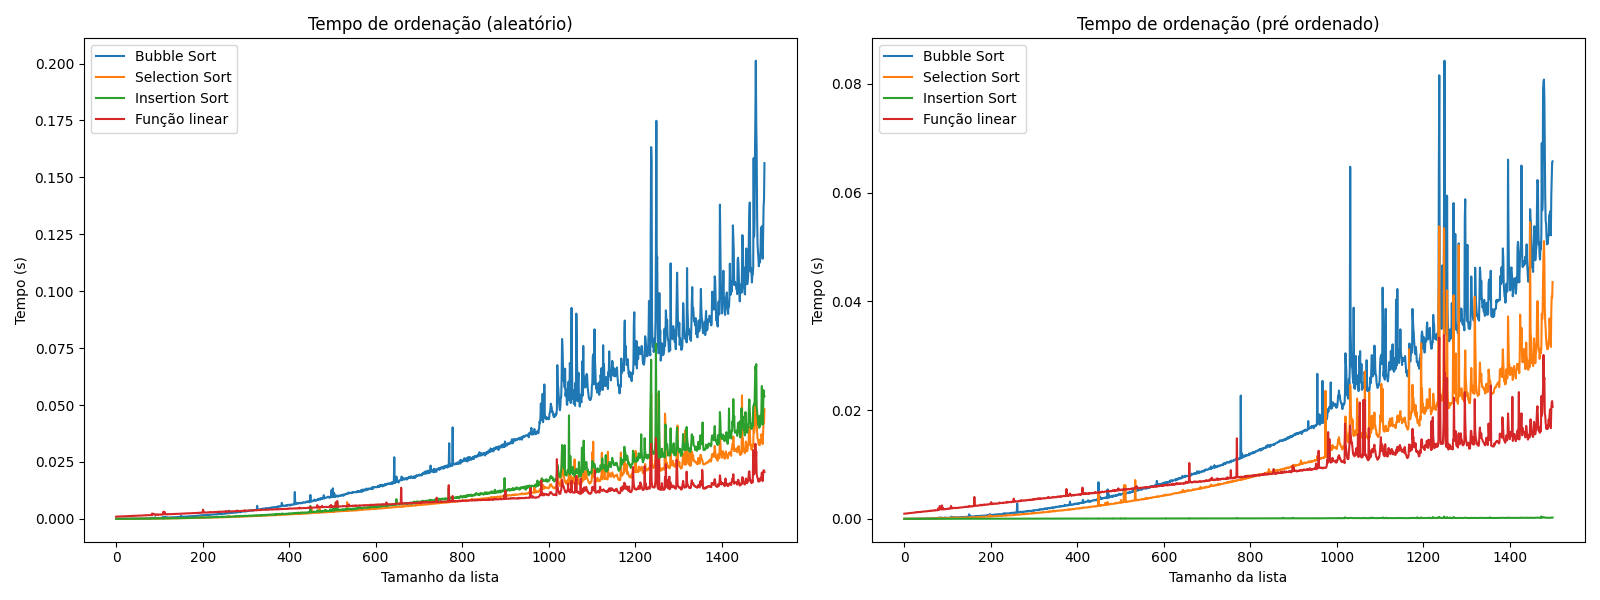
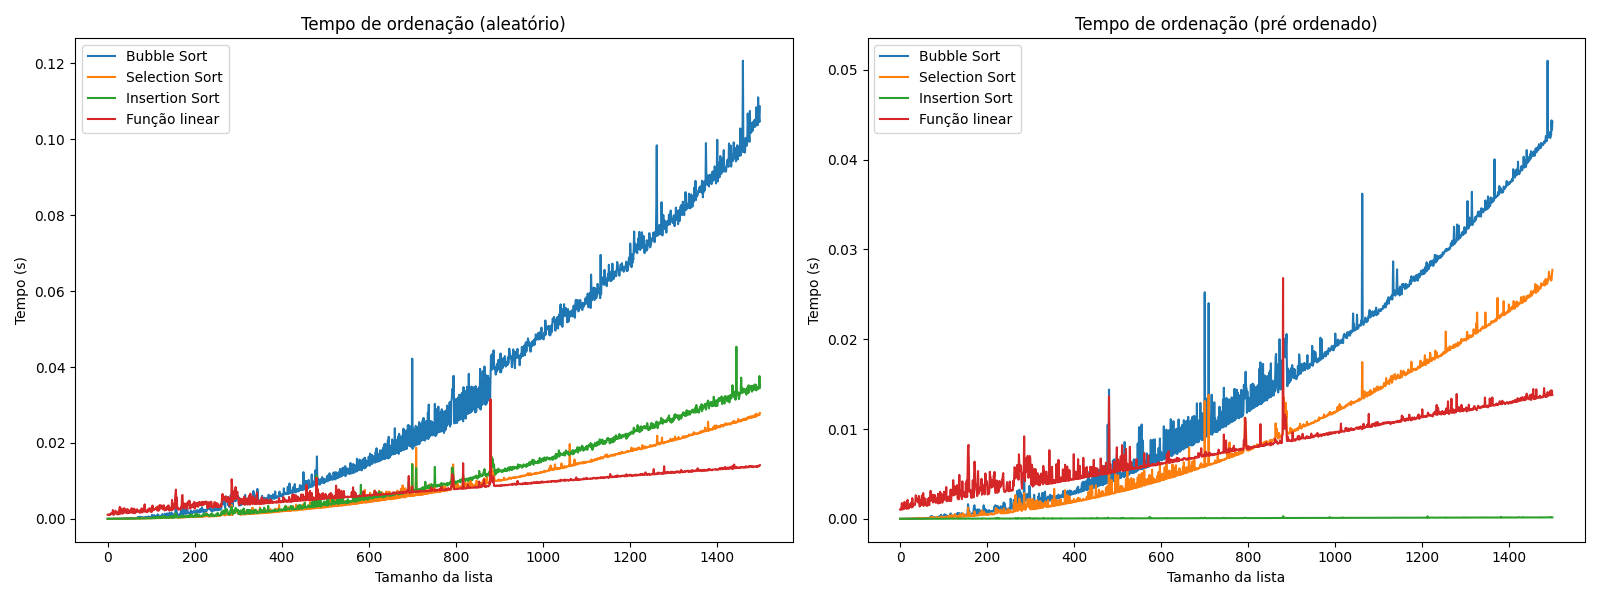
Adds algoritmos de ordenacao

diff --git a/10-07/bubble_sort.py b/10-07/bubble_sort.py
@@ -1,0 +1,28 @@
+import random
+
+def trocar_posicao(l, i, j):
+    aux = l[j]
+    l[j] = l[i]
+    l[i] = aux
+
+
+def bubble_sort(l):
+    for i in range(len(l)):
+        ordenado = True
+
+        for j in range(1, len(l) - i):
+            if l[j] < l[j - 1]:
+                ordenado = False
+                trocar_posicao(l, j, j - 1)
+
+        if ordenado:
+            break
+
+
+l = [random.random() for i in range(10)]
+print(l)
+
+bubble_sort(l)
+print(l)
+
+bubble_sort([1, 2, 3, 4, 5, 6])

diff --git a/10-07/selection_sort.py b/10-07/selection_sort.py
@@ -1,0 +1,24 @@
+import random
+
+def trocar_posicao(l, i, j):
+    aux = l[j]
+    l[j] = l[i]
+    l[i] = aux
+
+
+def selection_sort(l):
+    for i in range(len(l)):
+        menor = l[i]
+        menor_idx = i
+        for j in range(i, len(l)):
+            if l[j] < menor:
+                menor = l[j]
+                menor_idx = j
+
+        trocar_posicao(l, i, menor_idx)
+
+l = [random.randint(0, 20) for i in range(10)]
+print(l)
+
+selection_sort(l)
+print(l)

diff --git a/10-07/insertion_sort.py b/10-07/insertion_sort.py
@@ -1,0 +1,22 @@
+import random
+
+
+def insertion_sort(l):
+    for i in range(1, len(l)):
+        aux = l[i]
+        j = i - 1
+        while j >= 0:
+            if l[j] > aux:
+                l[j + 1] = l[j] 
+            else:
+                break
+
+            j -= 1
+        l[j + 1] = aux
+
+
+l = [random.randint(0, 20) for i in range(10)]
+print(l)
+
+insertion_sort(l)
+print(l)
